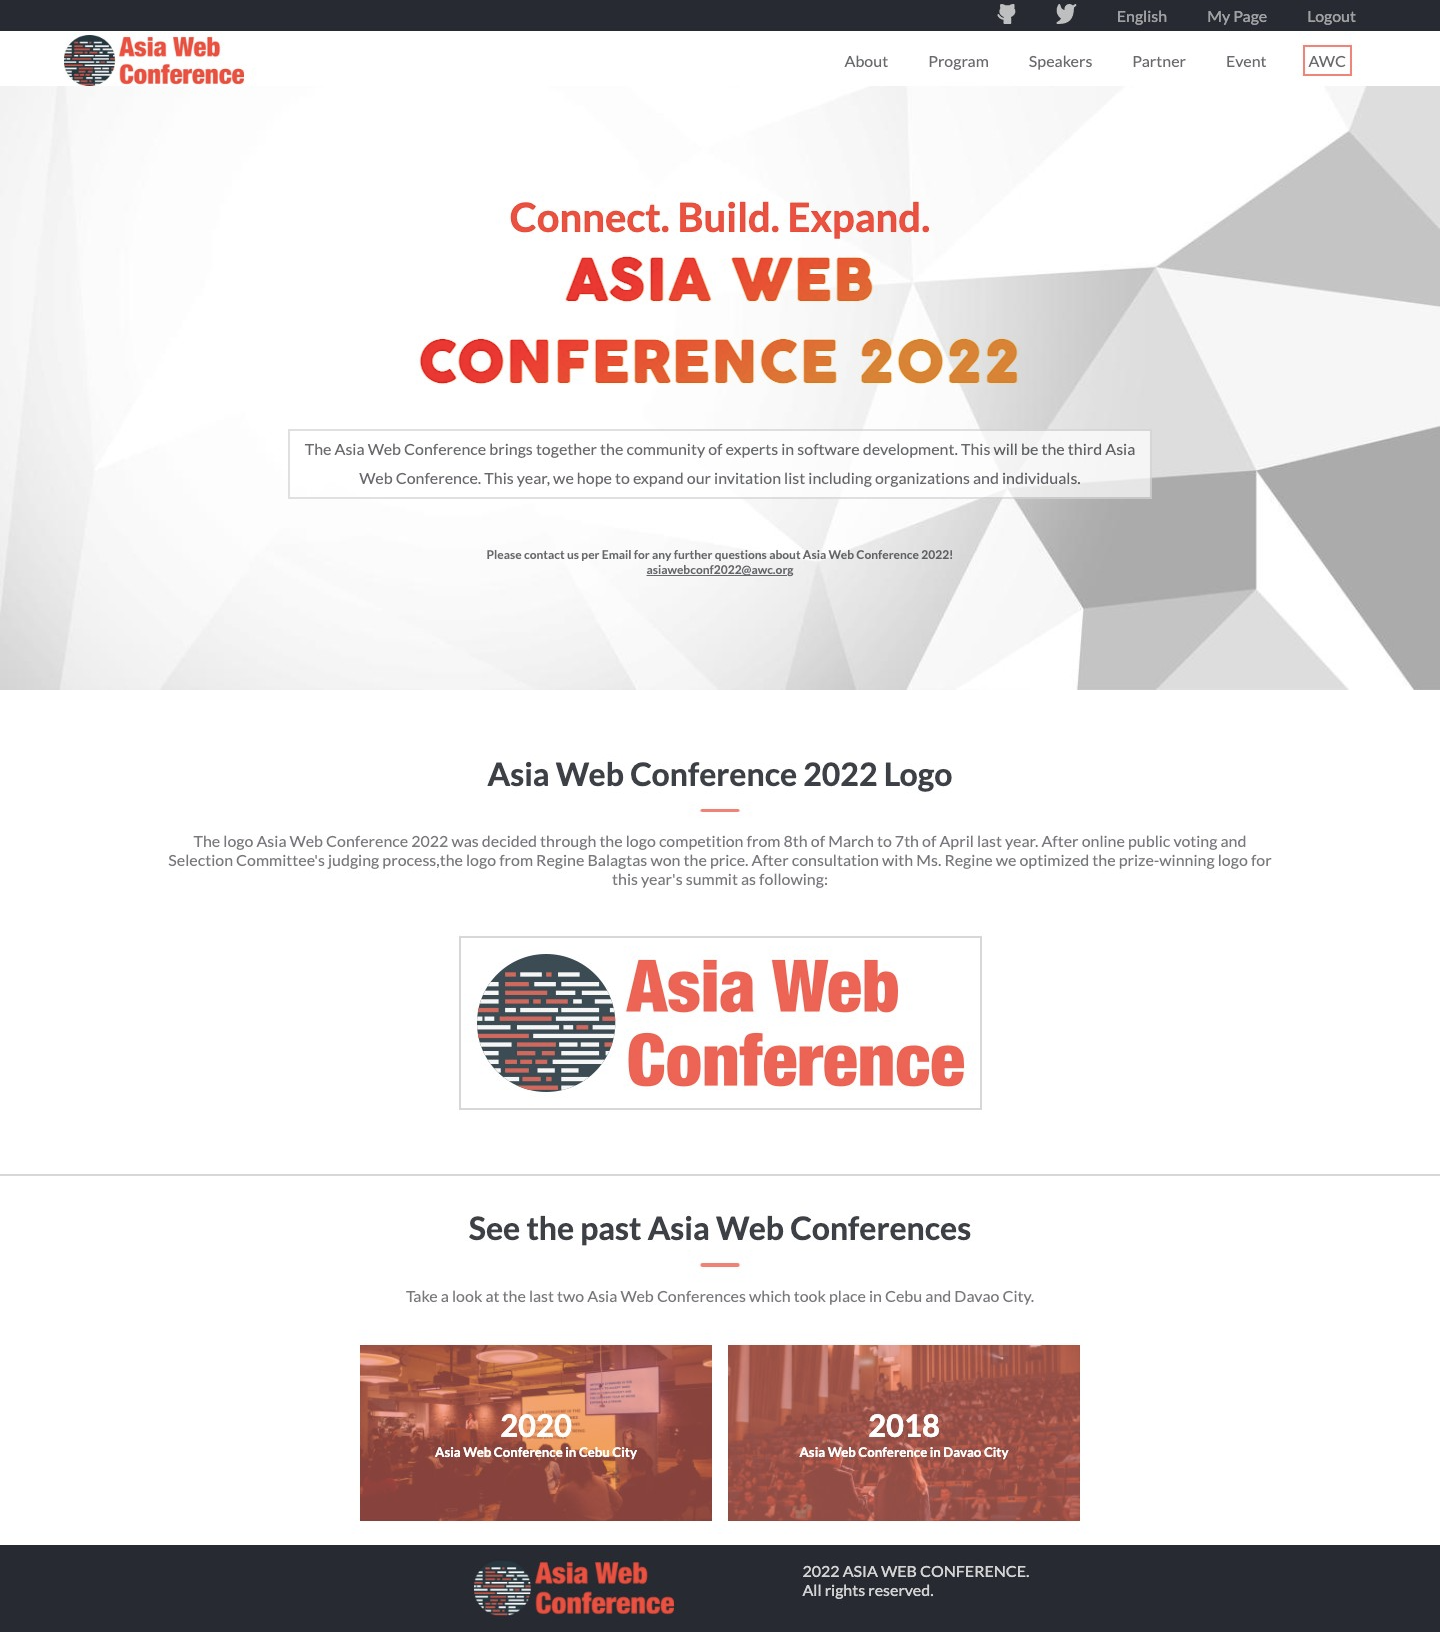
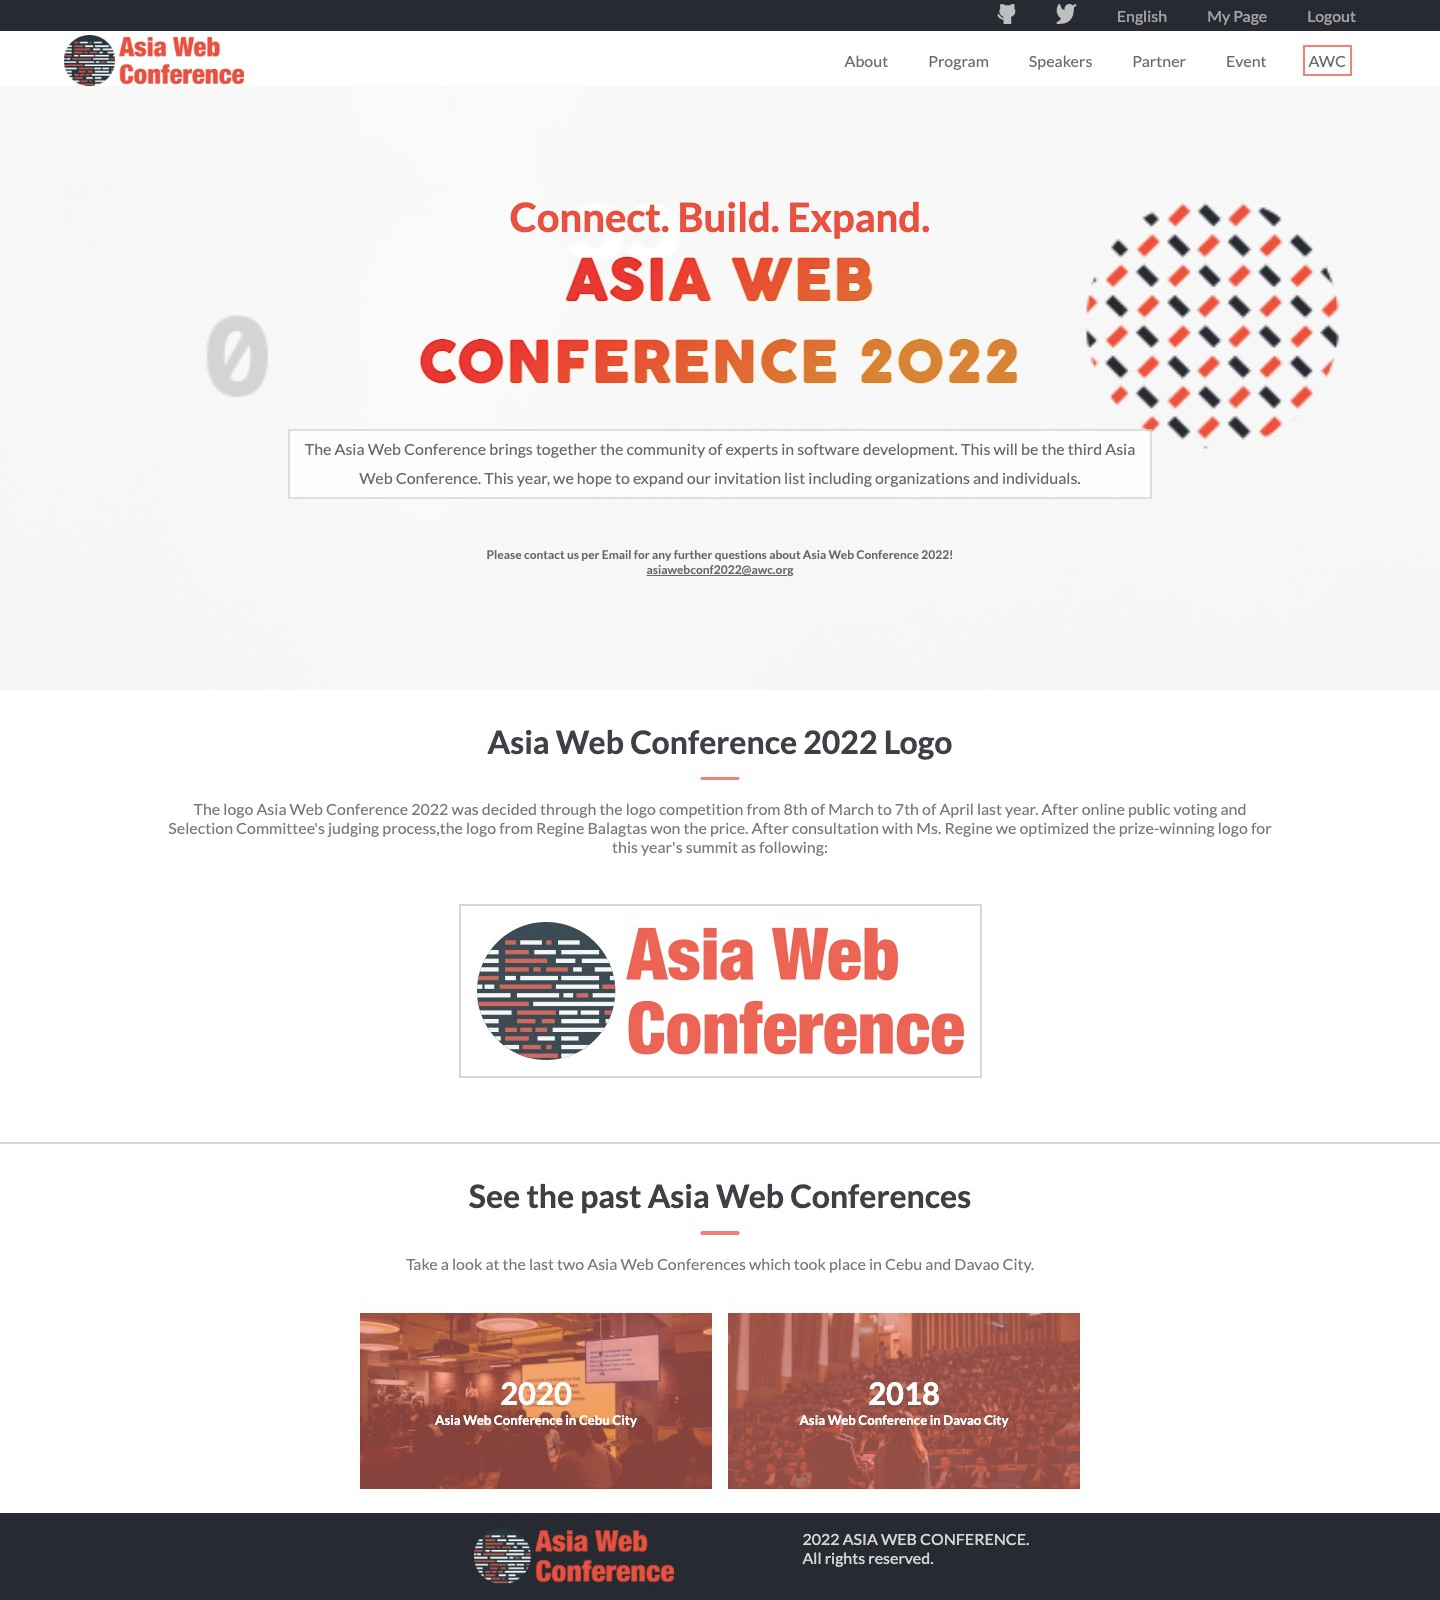
Update background images

diff --git a/style.css b/style.css
@@ -31,8 +31,8 @@ html {
 
 /* ---------------Main Section--------------- */
 .bgContainer {
-  background-image: url(./assets/background.jpeg);
-  background-position: bottom;
+  background-image: url(./assets/mobile-bg.png);
+  background-position: center;
   background-repeat: no-repeat;
   background-size: cover;
   background-attachment: fixed;
@@ -42,7 +42,6 @@ html {
   flex-direction: column;
   justify-content: center;
   align-content: center;
-  margin-bottom: 2rem;
   padding-bottom: 2rem;
 }
 
@@ -92,8 +91,7 @@ nav {
   font-size: 2rem;
   letter-spacing: 0.1rem;
 
-  /* background-image: linear-gradient(150deg, #ec5242 0%, red 0%, #d98324 74%); */
-  background-image: url(./assets/redbg.jpg);
+  background-image: linear-gradient(150deg, #ec5242 0%, red 0%, #d98324 74%);
   background-clip: border-box;
   -webkit-background-clip: text;
   color: transparent;
@@ -449,6 +447,11 @@ nav {
 
 /* ---------------Media Query--------------- */
 @media (min-width: 768px) {
+  .bgContainer {
+    background-image: url(./assets/website-bg.png);
+    height: 100vh;
+  }
+
   .menuBar {
     display: none;
   }
